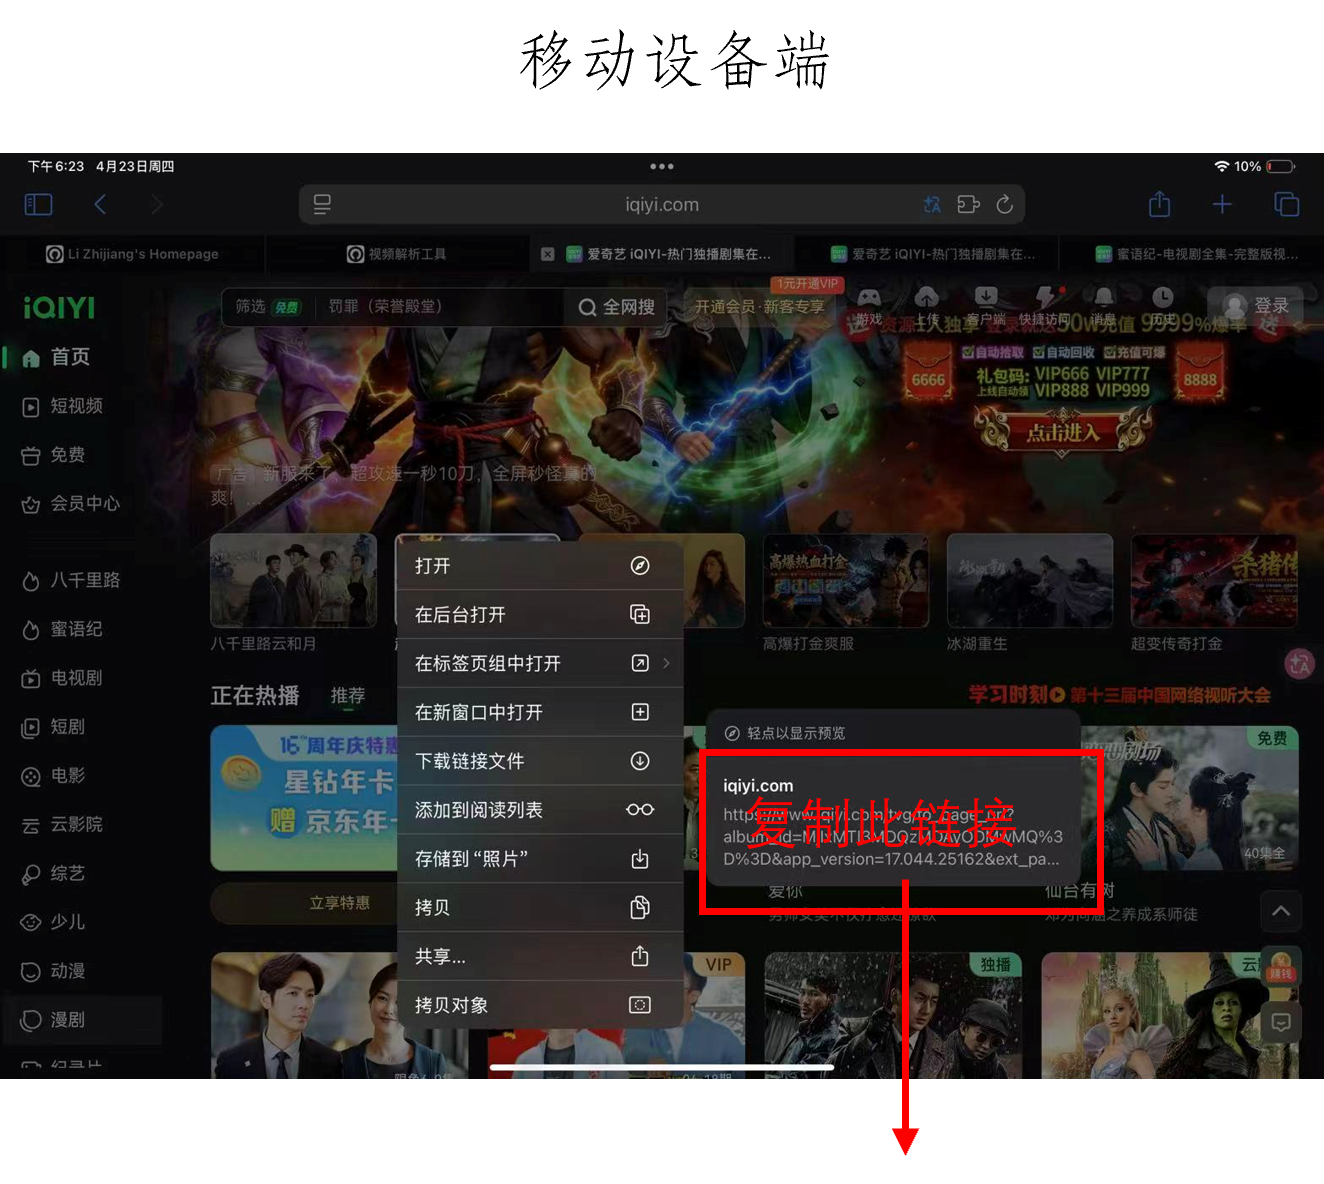
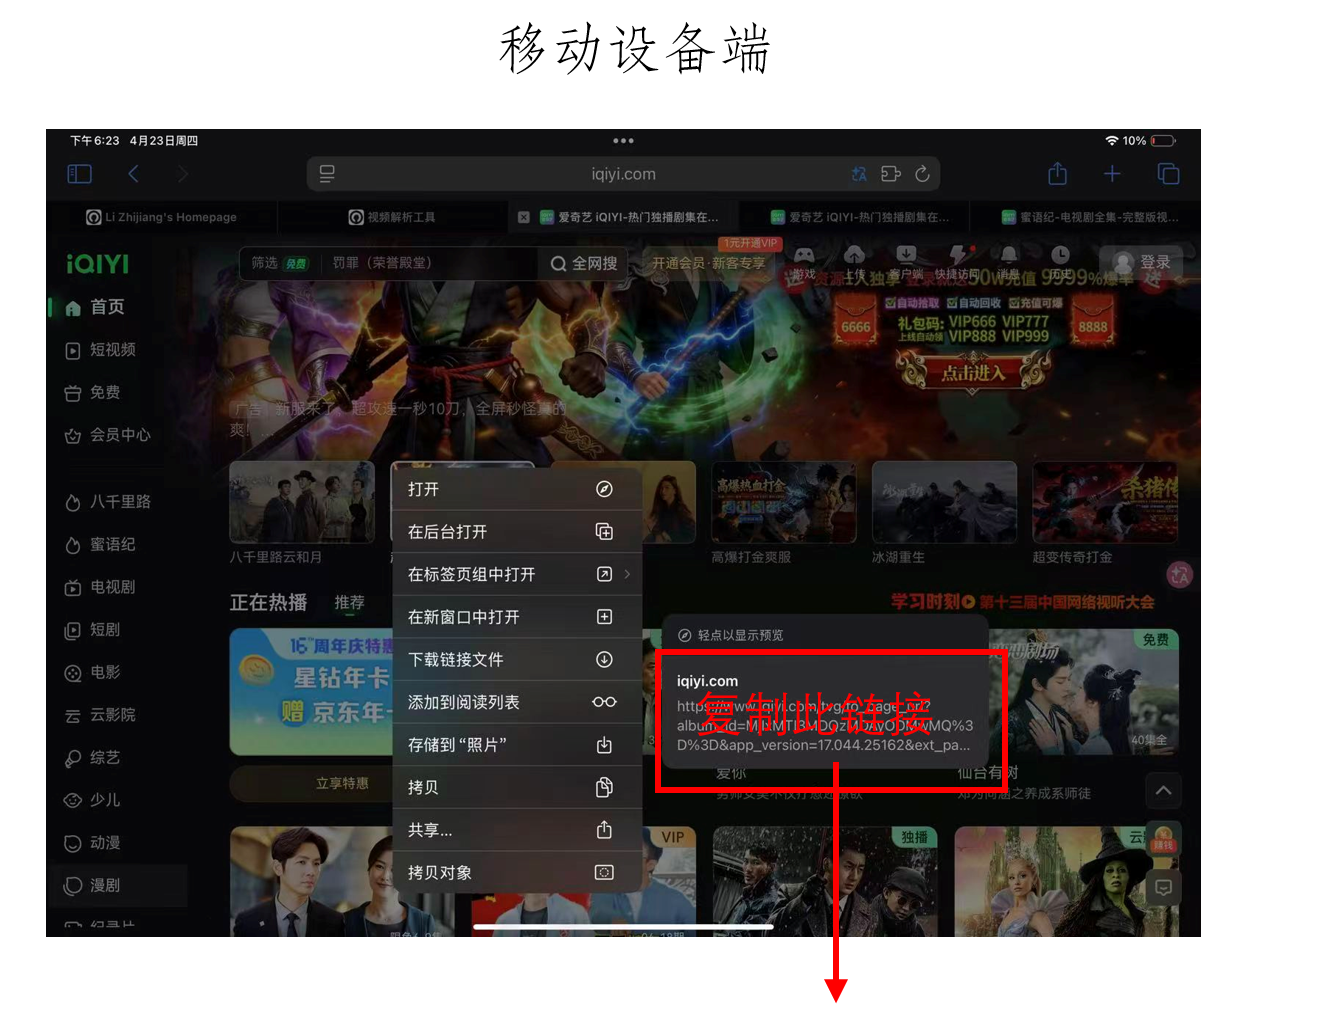
change

diff --git a/vip-video-parser.html b/vip-video-parser.html
@@ -96,13 +96,13 @@
     <div style="margin: 20px 0;">
         <div class="slideshow-container">
             <div class="mySlides fade">
-                <img src="static/assets/img/tools/图片1.png" alt="使用说明图片1" style="max-width: 90%; height: auto; border-radius: 10px; box-shadow: 0 2px 10px rgba(0,0,0,0.1);">
+                <img src="static/assets/img/tools/图片1.png" alt="使用说明图片1" style="max-width: 75%; height: auto; border-radius: 10px; box-shadow: 0 2px 10px rgba(0,0,0,0.1);">
             </div>
             <div class="mySlides fade">
-                <img src="static/assets/img/tools/图片2.png" alt="使用说明图片2" style="max-width: 90%; height: auto; border-radius: 10px; box-shadow: 0 2px 10px rgba(0,0,0,0.1);">
+                <img src="static/assets/img/tools/图片2.png" alt="使用说明图片2" style="max-width: 75%; height: auto; border-radius: 10px; box-shadow: 0 2px 10px rgba(0,0,0,0.1);">
             </div>
             <div class="mySlides fade">
-                <img src="static/assets/img/tools/图片3.png" alt="使用说明图片3" style="max-width: 90%; height: auto; border-radius: 10px; box-shadow: 0 2px 10px rgba(0,0,0,0.1);">
+                <img src="static/assets/img/tools/图片3.png" alt="使用说明图片3" style="max-width: 75%; height: auto; border-radius: 10px; box-shadow: 0 2px 10px rgba(0,0,0,0.1);">
             </div>
         </div>
         <br>
